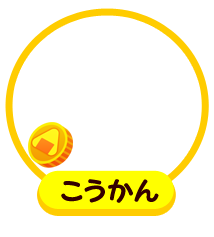
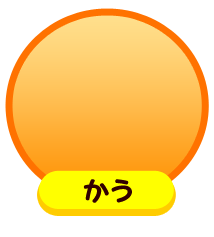
グラフィック更新
07_shop/004を更新

diff --git a/www/StampMain.js b/www/StampMain.js
@@ -951,7 +951,7 @@ var stamp_ctx;
 					g_WindowsScaleRate += 0.15;
 					if(g_WindowsScaleRate > 1.0) { g_WindowsScaleRate = 1.0; }
 					DrawStampWindow(stamp_ctx, 1.0, false, sTouchStartX, sTouchStartY, sTouchMoveX, sTouchMoveY);
-					DrawBack(stamp_ctx);
+					//DrawBack(stamp_ctx);
 					var id = DrawWindowYesNo(stamp_ctx, g_WindowsScaleRate, ((!bTouch) && bOldTouch), sTouchStartX, sTouchStartY, sTouchMoveX, sTouchMoveY);
 					if(id == 0) 
 					{ 
